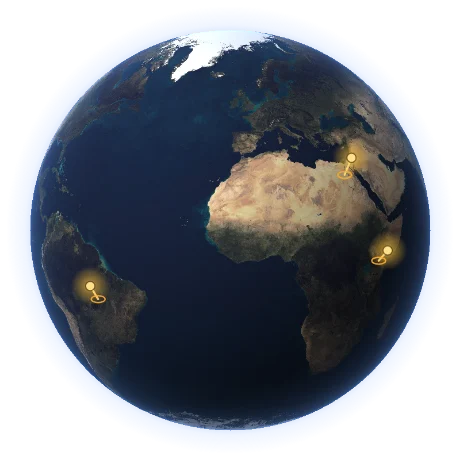
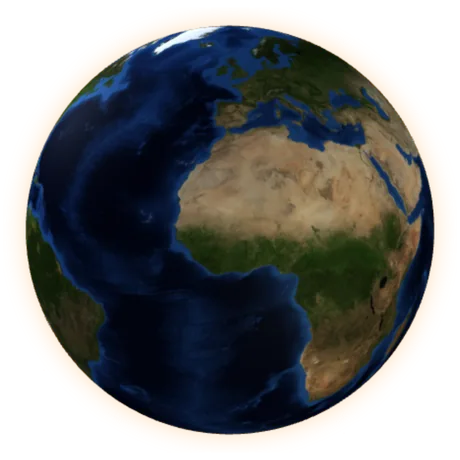
Globe: the menu planet is now the NASA Blue Marble render; lower lights so the sun no longer blows out the USA; v52
Owner: replace the old image with the NASA image for every pack; the sun makes the USA look very
overexposed.
- globe.js: ambient 1.15 -> 0.85, key light 1.35 -> 0.95, specular lowered. The western US was
  rendering near white; terrain is visible again (before/after checked in Chromium).
- globe-hero.webp (the menu planet and the results placeholder) re-rendered with the real globe()
  code from the NASA texture, facing Africa, transparent, no stars or pins, 35 KB.
- NOTICE.md row, CLAUDE.md. CACHE / CONFIG.version 52.

Claude-Session: https://claude.ai/code/session_01HKyVN3nxfcZCx5KMsqsktg

diff --git a/globe.js b/globe.js
@@ -363,7 +363,7 @@ function globe3d(host, owned, pack){
     const old=earthMat.map;
     earthMat.map=tex;
     earthMat.emissive=new THREE.Color(0x000000);
-    earthMat.specular=new THREE.Color(0x223344);
+    earthMat.specular=new THREE.Color(0x0c1218);
     earthMat.shininess=15;
     earthMat.needsUpdate=true;
     if(old && old.dispose) old.dispose();
@@ -379,8 +379,8 @@ function globe3d(host, owned, pack){
   }));
   atmo.scale.setScalar(1.13); scene.add(atmo);
 
-  scene.add(new THREE.AmbientLight(0x9FB4D0, 1.15));
-  const key=new THREE.DirectionalLight(0xfff6e8, 1.35); key.position.set(-3,2.2,3.4); scene.add(key);
+  scene.add(new THREE.AmbientLight(0x9FB4D0, 0.85));
+  const key=new THREE.DirectionalLight(0xfff6e8, 0.95); key.position.set(-3,2.2,3.4); scene.add(key);
   const rim=new THREE.DirectionalLight(0xC9953C, 0.45); rim.position.set(3.5,-1.5,-2.5); scene.add(rim);
 
   /* ---- the winner's lots: pillars + glow ---- */

diff --git a/platform.js b/platform.js
@@ -5,8 +5,8 @@
 
 const CONFIG = {
   /* The release number shown on the menu so anyone can check they have the latest build.
-     MUST equal the number in sw.js's CACHE ('bidding-wars-v51' -> 51); test/version.test.js enforces it. */
-  version: 51,
+     MUST equal the number in sw.js's CACHE ('bidding-wars-v52' -> 52); test/version.test.js enforces it. */
+  version: 52,
 
   /* Online 1 vs 1 needs a real backend (Firebase, Supabase, PartyKit, …).
      Leave this false until one is wired up in Net.* below — shipping a mode

diff --git a/sw.js b/sw.js
@@ -1,7 +1,7 @@
 /* Service worker — the whole game is cached on first visit, then served from
    cache. After that it runs with no connection at all, which is the point. */
 
-const CACHE = 'bidding-wars-v51';
+const CACHE = 'bidding-wars-v52';
 
 const SHELL = [
   './',

diff --git a/CLAUDE.md b/CLAUDE.md
@@ -34,7 +34,7 @@ references it and `sw.js` never caches it.
 until `CACHE` is bumped:
 
 ```js
-const CACHE = 'bidding-wars-v51';   // increment this, every time
+const CACHE = 'bidding-wars-v52';   // increment this, every time
 ```
 
 Forgetting this is the single most common mistake in this repo's history —
@@ -42,7 +42,7 @@ it's easy to ship a real fix and have it silently not reach anyone. After
 bumping, the user has to fully close every open tab and reopen (not just
 reload) before the new service worker takes over.
 
-**The menu shows the release number** (small `v51` after the footer line) so the player can check they have the
+**The menu shows the release number** (small `v52` after the footer line) so the player can check they have the
 latest build. It comes from `CONFIG.version` in `platform.js` and **must be bumped together with `CACHE`** (same
 number); `test/version.test.js` fails if they differ. It is a constant, not stored data (privacy: still four keys).
 
@@ -58,7 +58,7 @@ asset the game needs to actually play is bundled locally:
 - every content pack (`pack-*.js`) — they load lazily, but must be in `sw.js`'s `SHELL` so they are cached for offline
 - `earth.jpg` (the globe's satellite texture, NASA Blue Marble July at 4096×2048 since v44, see `NOTICE.md` — same file whether online or offline)
 - `countries-110m.json` (map borders)
-- `globe-hero.webp` (the menu's planet, also the results card's placeholder)
+- `globe-hero.webp` (the menu's planet, also the results card's placeholder; v52: re-rendered from the NASA Blue Marble texture by the real `globe()` code, 460×460, transparent, no stars or pins; the globe lights were lowered in v52 because the sun blew out North America: ambient 0.85, key 0.95)
 - `logo.svg` (the logo: a brass map pin holding a globe, a ripple beneath; the favicon, and the source the `icon-*.png` app icons are rendered from — v46, original artwork; the maskable icon is the same art scaled into the safe zone)
 - sound is synthesised in `sound.js` with Web Audio — there are no audio files
 - **no web fonts**: the UI uses the system stack only (see "Look and feel")

diff --git a/NOTICE.md b/NOTICE.md
@@ -12,6 +12,7 @@ asset, add it here and in `credits()` in `app.js` (five languages).
 | US state outlines | `us-map.js` (generated by `test/build-us-map.js`) | U.S. Census Bureau cartographic boundary files, via the `us-atlas` npm package | Data: public domain. Package `us-atlas`: ISC, © Mike Bostock |
[1 lines of base64/hex data omitted]
 | World borders | `countries-110m.json` | Natural Earth | Public domain |
+| Menu planet | `globe-hero.webp` | Rendered by `globe.js` from the Globe texture row below (NASA Blue Marble, July) | as that row |
[1 lines of base64/hex data omitted]
 | three.js | `three.min.js` | three.js authors | MIT — © 2010–2021 three.js authors (text below) |
 | Sound | `sound.js` | Synthesised with Web Audio on the device — no recordings | Ours |
